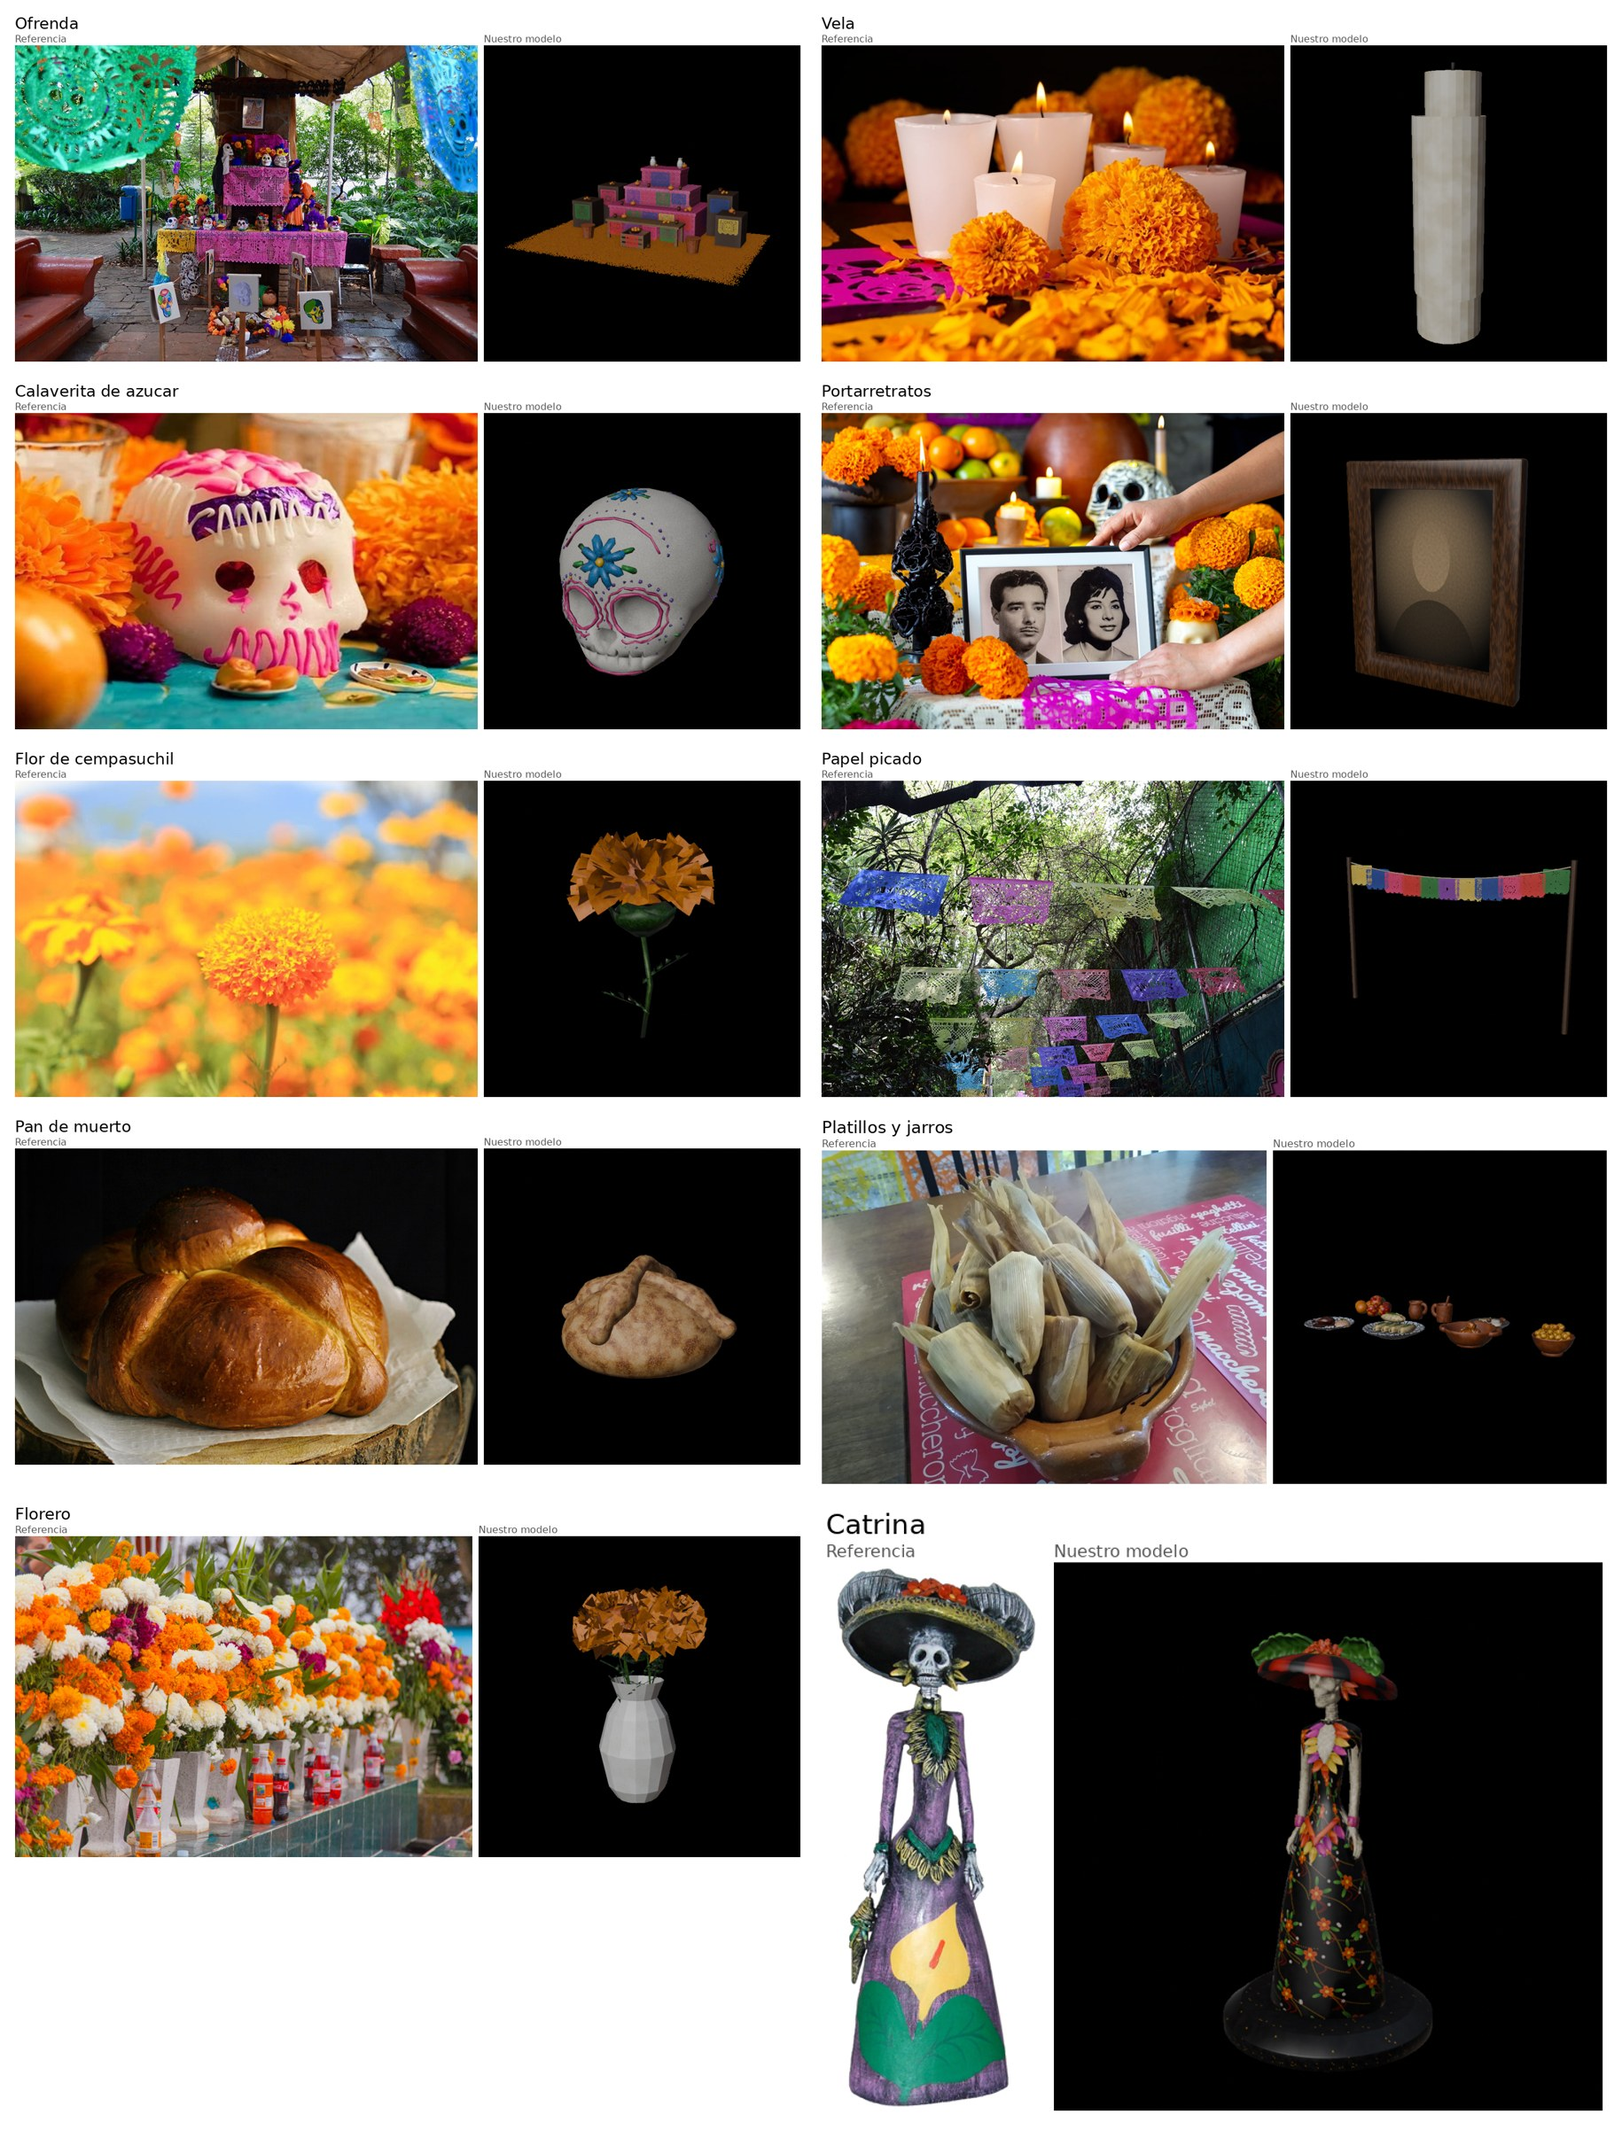
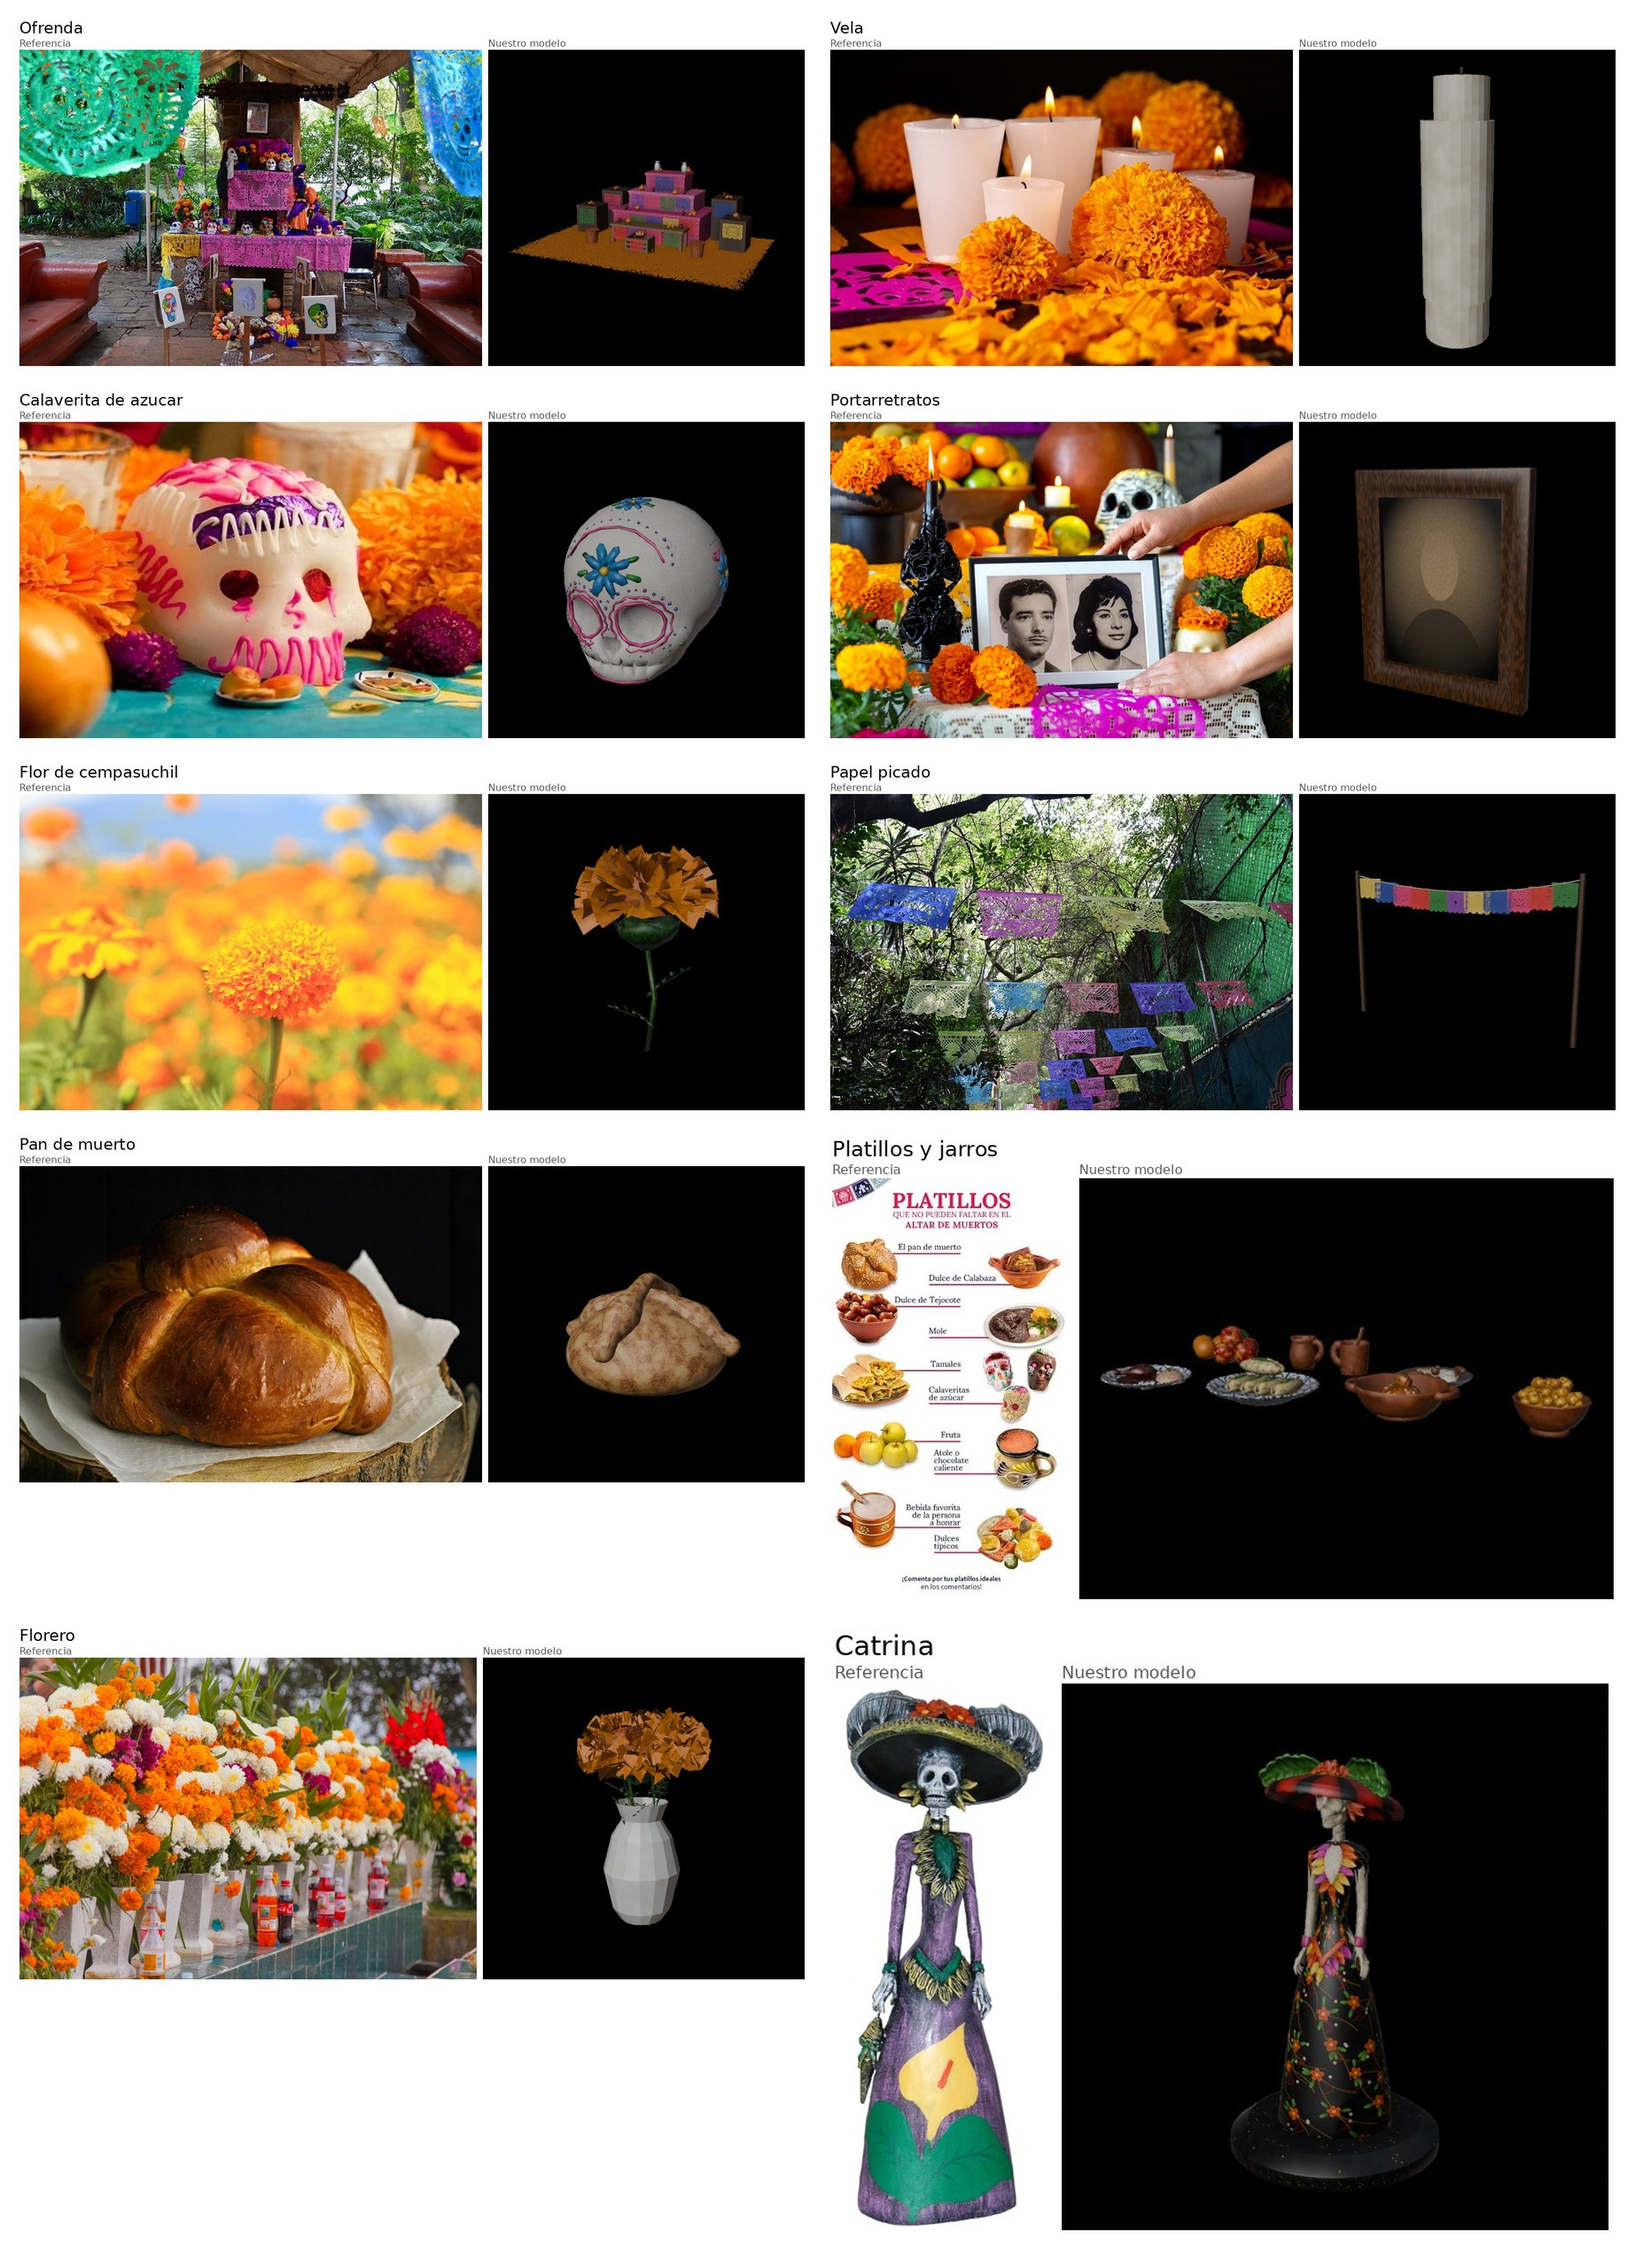
Cambio la imagen de referencia de los platillos

diff --git a/docs/referencias/README.md b/docs/referencias/README.md
@@ -13,8 +13,8 @@ Las fotos de paginas web (noticias y recetas) tienen derechos reservados de sus 
 | Flor de cempasuchil | `fotos/cempasuchil.jpg` | [Dia de Muertos: 6 cosas que debes saber de la flor de cempasuchil](https://www.viveusa.mx/compras/dia-de-muertos-6-cosas-que-debes-saber-de-la-flor-de-cempasuchil/) ([imagen](https://www.viveusa.mx/resizer/v2/7JJ6S24LTFBVRCDYYVXFUVKDFM.jpg?auth=d7ce2903bc28f61316969a19e31e82adc92bd49ee0b94f3bb960ad2dea57b100&smart=true&height=666)) | Vive USA | Derechos reservados, citada como fuente |
 | Papel picado | `fotos/papel_picado.jpg` | [Papel picado del Dia de Muertos](https://commons.wikimedia.org/wiki/File:Papel_picado_del_D%C3%ADa_de_Muertos.jpg) (Wikimedia Commons) | Carmalvi | CC BY-SA 4.0 |
 | Pan de muerto | `fotos/pan_de_muerto.jpg` | [Receta de pan de muerto](https://www.directoalpaladar.com/recetas-de-panes/receta-de-pan-de-muerto) ([imagen](https://i.blogs.es/c174e2/pan_muerto-magic/840_560.jpg)) | Directo al Paladar | Derechos reservados, citada como fuente |
-| Platillos y jarros | `fotos/platillos.jpg` | [Dia de Muertos: platillos](https://ruptura360.mx/el-estado/dia-de-muertos-platillos/) ([imagen](https://ruptura360.mx/wp-content/uploads/2024/10/Tamales-de-frijol-1-1024x768.jpg)) | Ruptura 360 | Derechos reservados, citada como fuente |
+| Platillos y jarros | `fotos/platillos.jpg` | Infografia "Platillos que no pueden faltar en el altar de muertos" (imagen difundida en redes sociales; no se encontro la publicacion original) | Autor no identificado | Derechos reservados, citada como fuente |
 | Florero | `fotos/florero.jpg` | [Tres hermosas flores indispensables para adornar el altar de Dia de Muertos en tu hogar](https://www.meteored.mx/noticias/actualidad/tres-hermosas-flores-indispensables-para-adornar-el-altar-de-dia-de-muertos-en-tu-hogar.html) ([imagen](https://services.meteored.com/img/article/tres-hermosas-flores-indispensables-para-adornar-el-altar-de-dia-de-muertos-en-tu-hogar-1729640031236_1280.png)) | Meteored Mexico | Derechos reservados, citada como fuente |
 | Catrina | `fotos/catrina.jpg` | [Catrina sculpture](https://commons.wikimedia.org/wiki/File:Catrina-sculpture.jpg) (Wikimedia Commons) | Dominik | CC BY-SA 3.0 |
 
-Las fotos se redujeron a 1000 px como maximo.
+Las fotos se redujeron a 1000 px como maximo. La infografia de los platillos es una ilustracion con varios platillos tipicos de la ofrenda (pan, dulce de calabaza, tejocotes, mole, tamales, fruta, atole y dulces); de ahi tomamos que platos y jarros poner en la mesa de la ofrenda.
